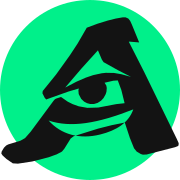
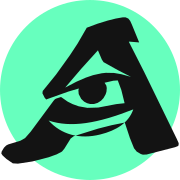
Refresh brand green and hero slogan

diff --git a/styles.css b/styles.css
@@ -2,7 +2,7 @@
   --ink: #131313;
   --paper: #f4f2ec;
   --white: #fffdf8;
-  --acid: #00f08a;
+  --acid: #67ffbe;
   --blue: #63d2ff;
   --orange: #ff5b2f;
   --line: rgba(19, 19, 19, .22);
@@ -25,6 +25,10 @@ body {
 
 a { color: inherit; text-decoration: none; }
 button { color: inherit; font: inherit; }
+:where(a, button) {
+  transition: color .38s ease, background-color .38s ease, border-color .38s ease,
+    box-shadow .38s ease, opacity .38s ease, transform .38s ease;
+}
 img { display: block; max-width: 100%; }
 
 .skip-link {
@@ -56,9 +60,9 @@ img { display: block; max-width: 100%; }
 .wordmark-mark { display: block; width: 42px; height: 42px; flex: none; }
 .main-nav { display: flex; gap: clamp(20px, 3vw, 44px); font-size: .84rem; font-weight: 700; text-transform: uppercase; }
 .main-nav a, .text-link, .site-footer a { text-decoration-thickness: 2px; text-underline-offset: 4px; }
-.main-nav a:hover, .main-nav a:focus-visible, .text-link:hover, .text-link:focus-visible, .site-footer a:hover { text-decoration: underline; }
-.header-cta { justify-self: end; padding: 11px 16px; border: 1px solid var(--ink); font-size: .78rem; font-weight: 800; text-transform: uppercase; transition: background .2s, color .2s; }
-.header-cta:hover, .header-cta:focus-visible { background: var(--ink); color: var(--paper); }
+.main-nav a:hover, .main-nav a:focus-visible, .text-link:hover, .text-link:focus-visible, .site-footer a:hover { color: var(--acid); text-decoration: underline; }
+.header-cta { justify-self: end; padding: 11px 16px; border: 1px solid var(--ink); font-size: .78rem; font-weight: 800; text-transform: uppercase; }
+.header-cta:hover, .header-cta:focus-visible { border-color: var(--ink); background: var(--acid); color: var(--ink); }
 
 .hero {
   display: grid;
@@ -83,7 +87,7 @@ h1 span { color: transparent; -webkit-text-stroke: 2px var(--ink); }
 .hero-actions { display: flex; align-items: center; gap: 28px; flex-wrap: wrap; }
 .button { display: inline-flex; min-height: 52px; align-items: center; justify-content: center; padding: 0 22px; font-size: .82rem; font-weight: 850; letter-spacing: .04em; text-transform: uppercase; }
 .button-primary { background: var(--ink); color: var(--white); }
-.button-primary:hover, .button-primary:focus-visible { background: var(--orange); }
+.button-primary:hover, .button-primary:focus-visible { background: var(--acid); color: var(--ink); }
 .text-link { font-size: .9rem; font-weight: 800; text-transform: uppercase; }
 .hero-stage { position: relative; display: grid; overflow: hidden; place-items: center; border-left: 1px solid var(--ink); background: var(--acid); }
 .hero-stage::before { position: absolute; width: 120%; height: 1px; background: var(--ink); content: ""; transform: rotate(-42deg); }
@@ -105,7 +109,8 @@ h2 { margin-bottom: 0; font-size: clamp(2.9rem, 6vw, 6.8rem); font-weight: 900; 
 .section-head > p { max-width: 420px; margin: 0; font-size: 1.05rem; }
 .filters { display: flex; gap: 8px; max-width: var(--max); margin: 0 auto 20px; flex-wrap: wrap; }
 .filter { padding: 9px 15px; border: 1px solid var(--ink); border-radius: 100px; background: transparent; cursor: pointer; font-size: .75rem; font-weight: 800; text-transform: uppercase; }
-.filter:hover, .filter:focus-visible, .filter.is-active { background: var(--ink); color: var(--white); }
+.filter.is-active { background: var(--ink); color: var(--white); }
+.filter:hover, .filter:focus-visible { background: var(--acid); color: var(--ink); }
 .project-grid { display: grid; grid-template-columns: repeat(12, 1fr); gap: 18px; max-width: var(--max); margin: 0 auto; }
 .project { grid-column: span 6; overflow: hidden; min-height: 580px; border: 1px solid var(--ink); background: var(--white); transition: transform .25s ease, opacity .25s; }
 .project:hover { transform: translateY(-6px); }
@@ -176,7 +181,7 @@ h2 { margin-bottom: 0; font-size: clamp(2.9rem, 6vw, 6.8rem); font-weight: 900; 
 .contact h2 { max-width: 1150px; margin-bottom: clamp(60px, 10vw, 140px); }
 .contact-row { display: flex; gap: 24px 80px; flex-wrap: wrap; }
 .contact-row a { border-bottom: 3px solid var(--ink); font-size: clamp(1.3rem, 3vw, 3rem); font-weight: 850; letter-spacing: -.03em; }
-.contact-row a:hover, .contact-row a:focus-visible { color: var(--orange); border-color: var(--orange); }
+.contact-row a:hover, .contact-row a:focus-visible { color: var(--ink); border-color: var(--paper); }
 .site-footer { display: grid; grid-template-columns: 1fr auto 1fr; gap: 24px; align-items: center; padding: 24px clamp(20px, 4vw, 64px); background: var(--ink); color: var(--paper); font-size: .72rem; font-weight: 750; letter-spacing: .06em; text-transform: uppercase; }
 .site-footer p { margin: 0; }
 .site-footer a { justify-self: end; }
@@ -328,7 +333,7 @@ h2 { overflow-wrap: anywhere; }
 .project-meta { flex: 1; }
 .project-links { grid-column: 1 / -1; display: flex; gap: 12px; flex-wrap: wrap; margin-top: 4px; }
 .project-links a { display: inline-flex; align-items: center; min-height: 44px; border-bottom: 1px solid var(--ink); font-size: .875rem; font-weight: 750; }
-.project-links a:hover, .project-meta h3 a:hover { color: #147349; }
+.project-links a:hover, .project-meta h3 a:hover { color: #147349; border-color: var(--acid); }
 .project-meta h3 a { text-underline-offset: 5px; }
 .project-meta h3 a:focus-visible { outline-offset: 3px; }
 .wordmark-mark { width: 46px; height: 46px; }
@@ -366,6 +371,7 @@ h2 { overflow-wrap: anywhere; }
 
 /* Brand-green hover preserves the outlined second line. */
 @media (hover: hover) {
+  #hero-title, #hero-title span { transition: color .45s ease, -webkit-text-stroke-color .45s ease; }
   #hero-title:hover { color: var(--acid); }
   #hero-title:hover span {
     color: transparent;
@@ -416,7 +422,8 @@ h2 { overflow-wrap: anywhere; }
 .cookie-banner p { max-width: 68ch; margin: 0; font-size: .88rem; }
 .cookie-actions { display: flex; gap: 12px; align-items: center; }
 .cookie-actions a { font-size: .75rem; font-weight: 800; text-decoration: underline; text-underline-offset: 3px; text-transform: uppercase; }
-.cookie-actions button { min-height: 44px; padding: 0 16px; border: 1px solid var(--ink); background: var(--acid); cursor: pointer; font-size: .75rem; font-weight: 850; text-transform: uppercase; }
+.cookie-actions button { min-height: 44px; padding: 0 16px; border: 1px solid var(--ink); background: var(--ink); color: var(--white); cursor: pointer; font-size: .75rem; font-weight: 850; text-transform: uppercase; }
+.cookie-actions button:hover, .cookie-actions button:focus-visible { background: var(--acid); color: var(--ink); }
 
 @media (max-width: 680px) {
   .site-header { grid-template-columns: minmax(0, 1fr) auto; }
@@ -437,7 +444,7 @@ h2 { overflow-wrap: anywhere; }
   #hero-title {
     margin-bottom: 24px;
     color: var(--acid);
-    font-size: clamp(3.75rem, 18vw, 6.25rem);
+    font-size: clamp(3.25rem, 14vw, 5.25rem);
     line-height: .86;
     overflow-wrap: normal;
   }

diff --git a/index.html b/index.html
@@ -9,7 +9,7 @@
   <link rel="icon" type="image/svg+xml" href="assets/adrian-favicon-v3.svg">
   <link rel="icon" type="image/png" sizes="32x32" href="assets/adrian-favicon-v3-32.png">
   <link rel="apple-touch-icon" href="assets/adrian-touch-icon-v3.png">
-  <link rel="stylesheet" href="styles.css?v=20260930-10">
+  <link rel="stylesheet" href="styles.css?v=20260930-12">
   <link rel="canonical" href="https://adrian-richter.com/">
   <meta property="og:type" content="website">
   <meta property="og:locale" content="de_DE">
@@ -223,7 +223,7 @@
     <section class="hero" id="top" aria-labelledby="hero-title">
       <div class="hero-copy">
         <p class="eyebrow">Grafik, Web &amp; Textil</p>
-        <h1 id="hero-title">Marken, die<br><span>hängen bleiben.</span></h1>
+        <h1 id="hero-title">Marken mit<br><span>Charakter.</span></h1>
         <p class="hero-intro">Willkommen bei AR.DESIGN. Ich bin Mediengestalter und entwickle Websites, Logos und Printdesign für Unternehmen, Handwerk und Gastronomie.</p>
         <div class="hero-actions">
           <a class="button button-primary" href="#projekte">Ausgewählte Projekte</a>
